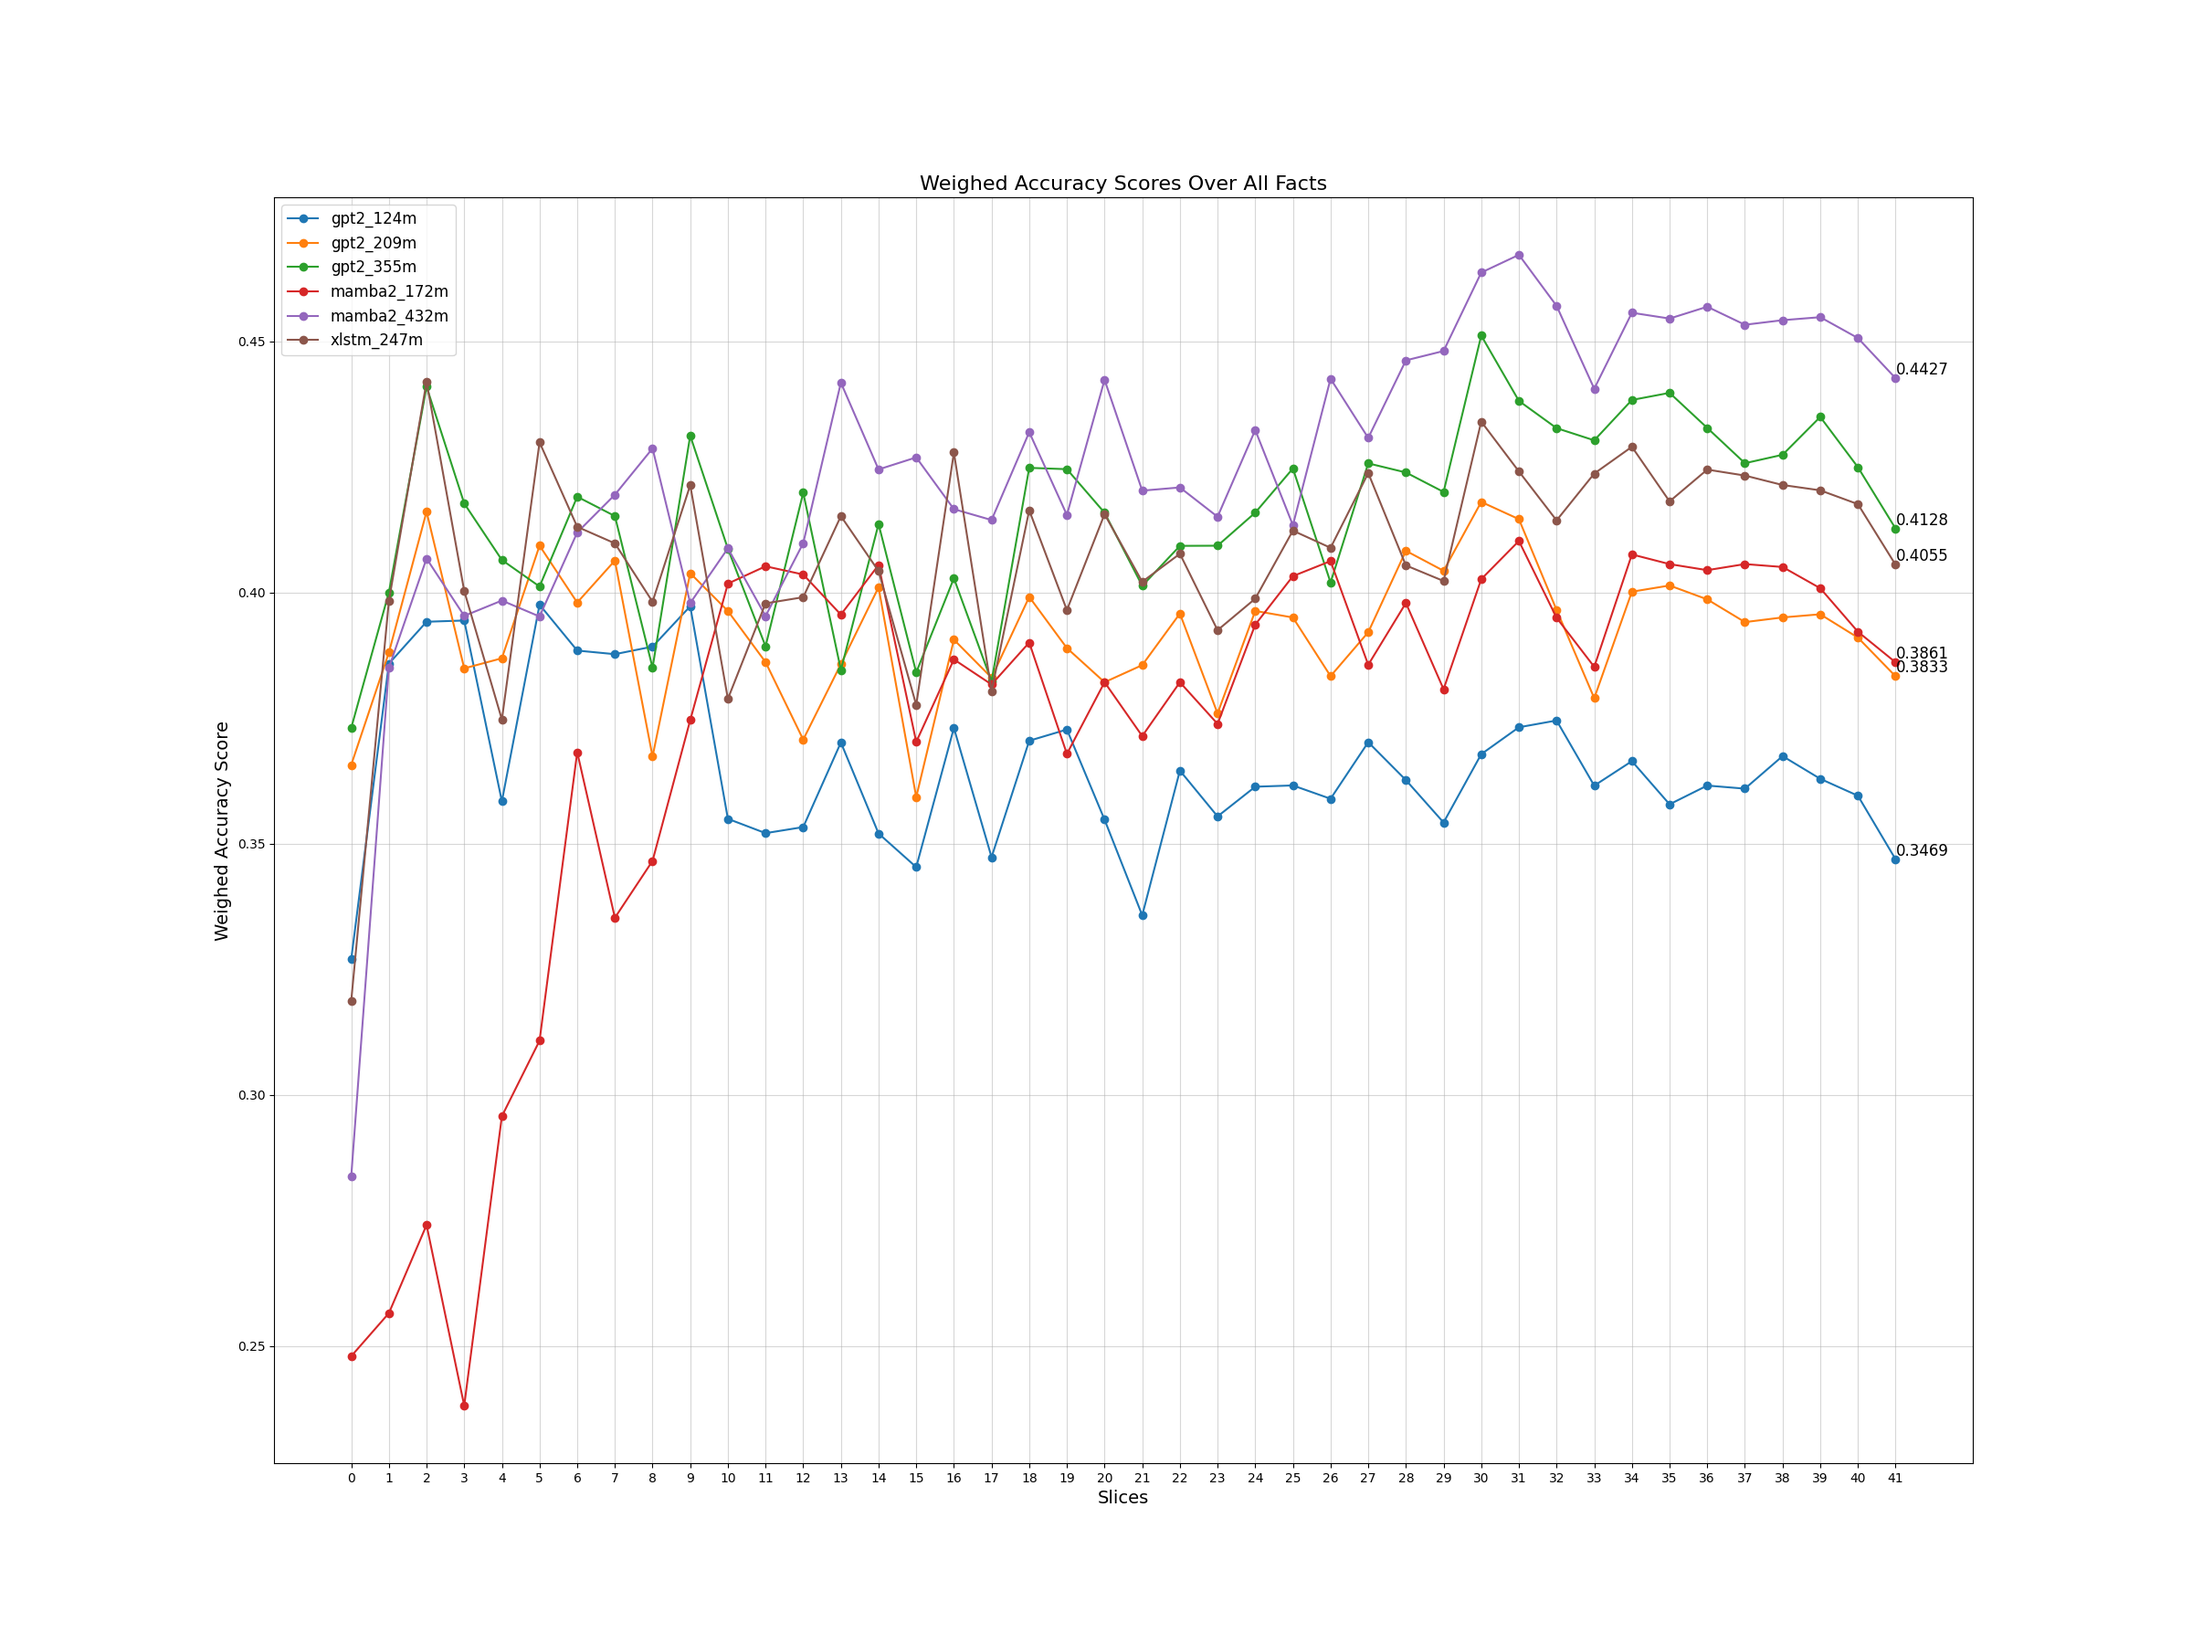
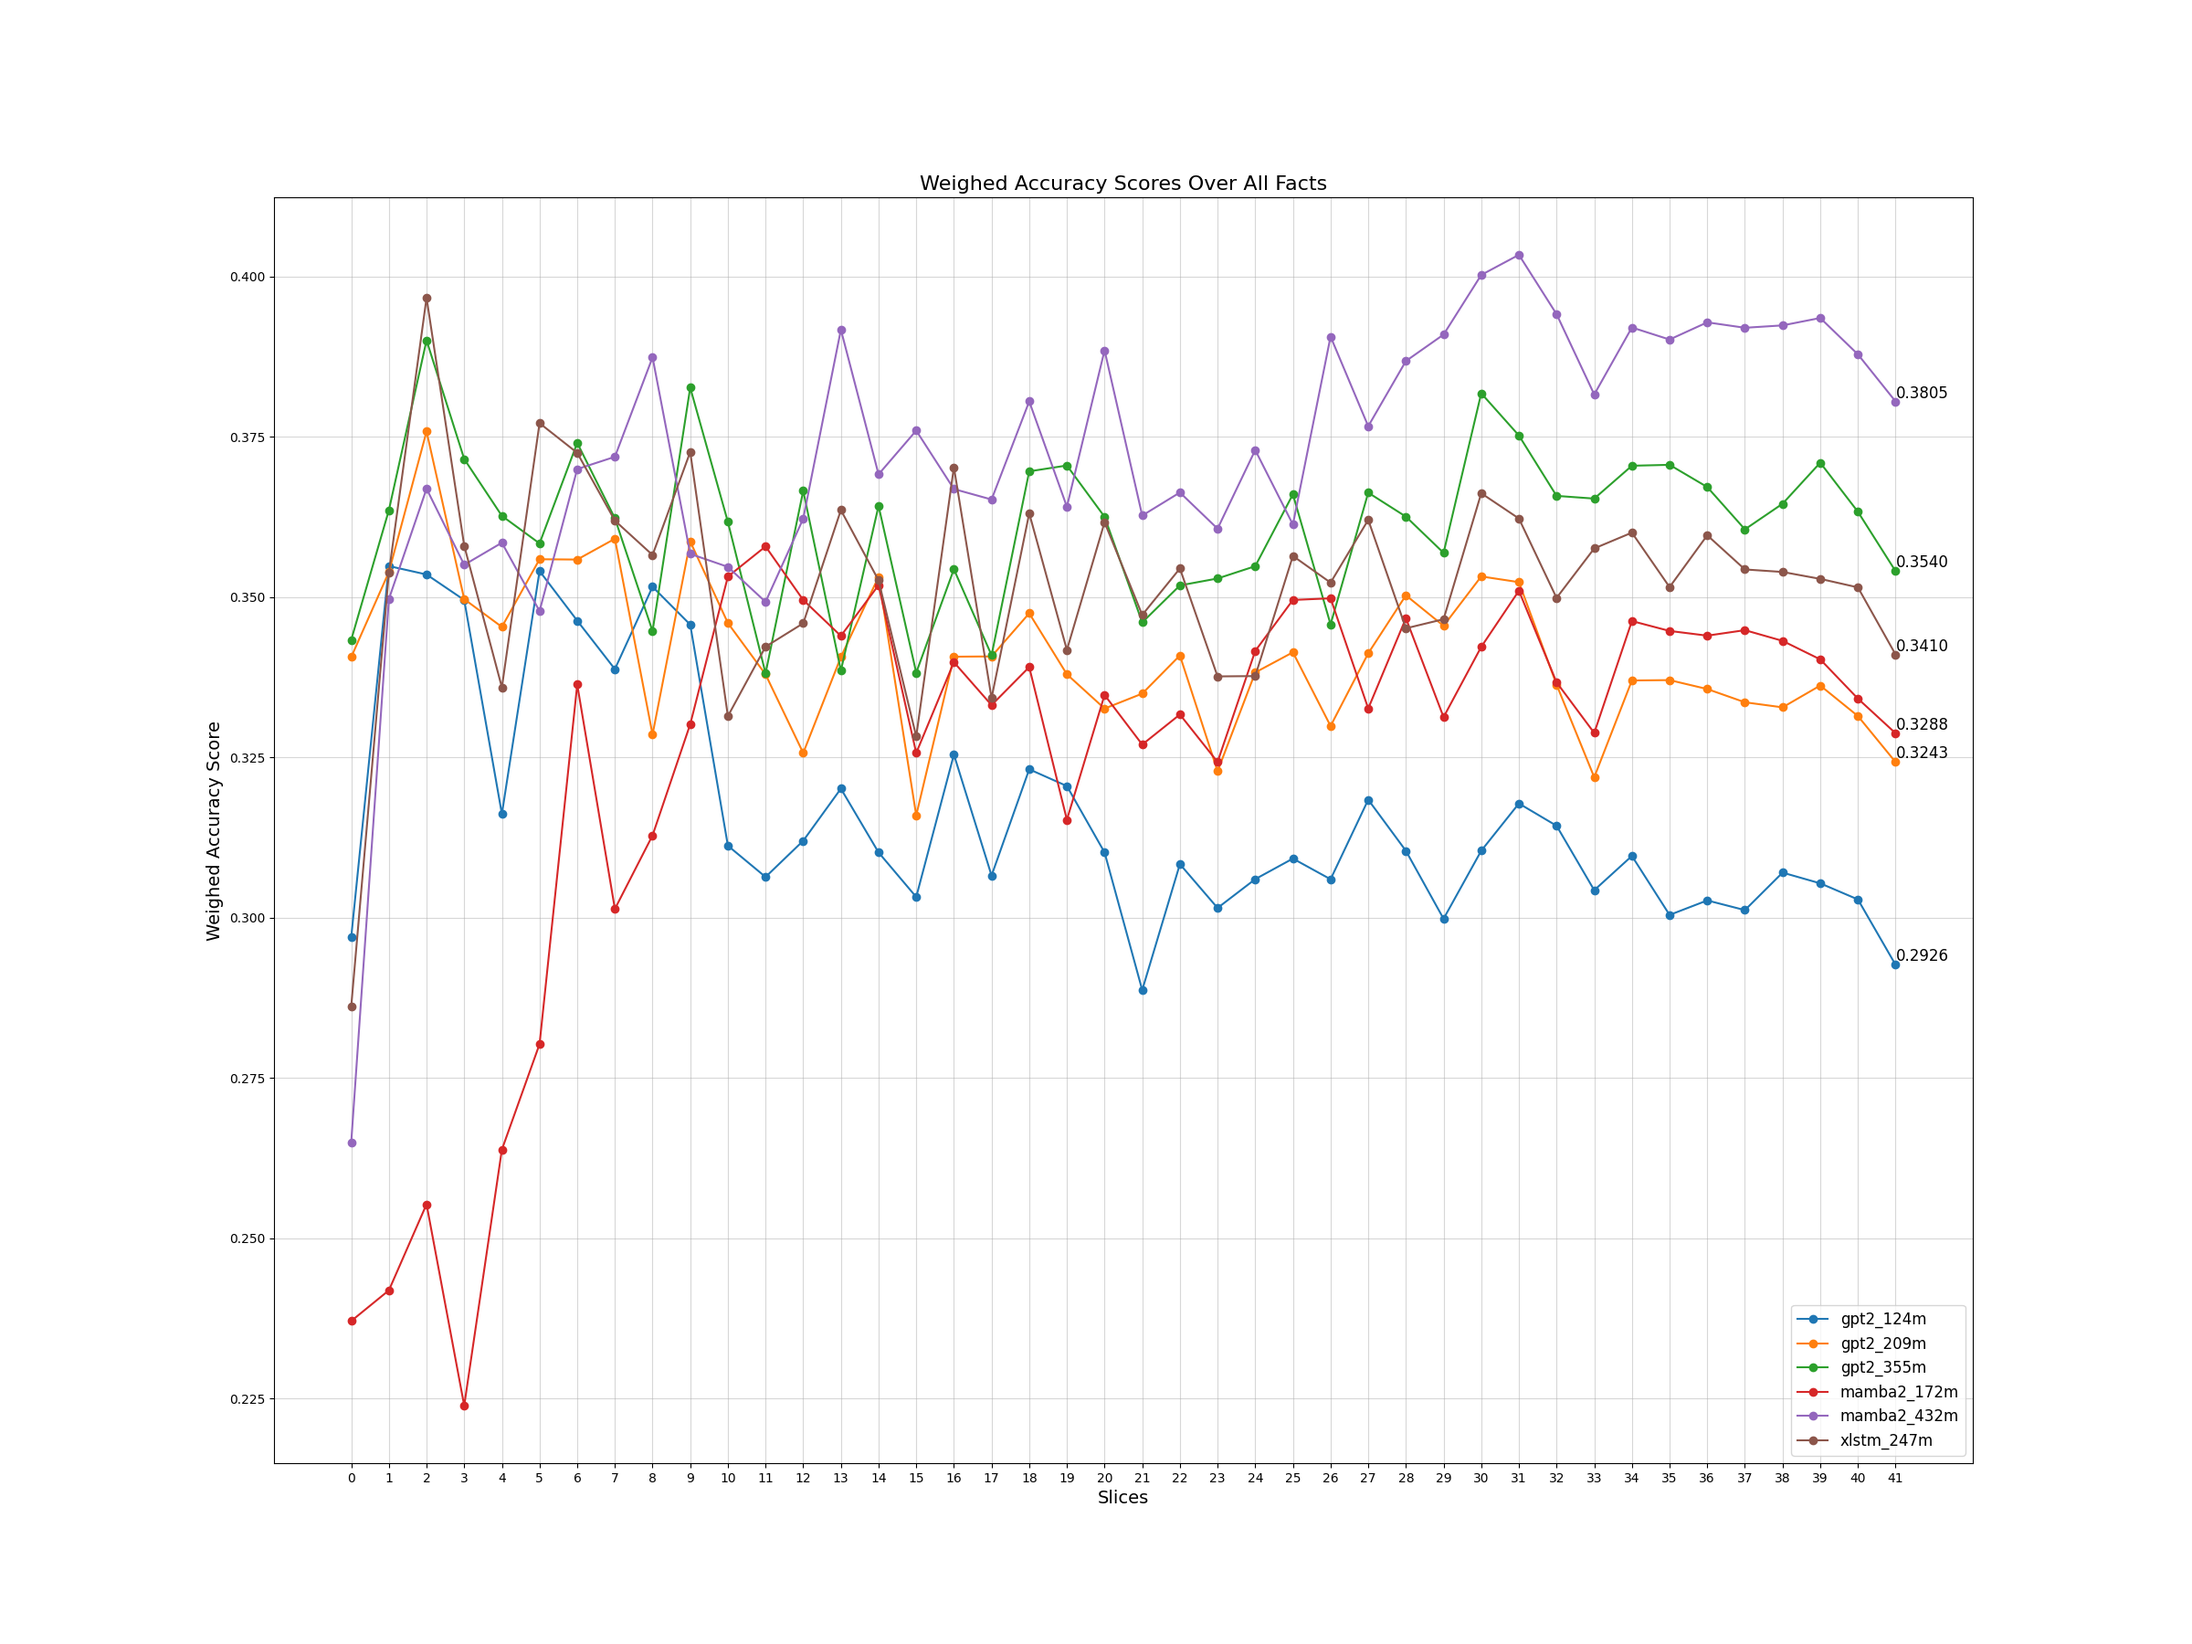
add results to readme

diff --git a/probing_on_dataset_slices.md b/probing_on_dataset_slices.md
@@ -210,6 +210,69 @@ same as BEAR-big
 - link to probing results: [probing results](probing_results/BEAR-small/mamba2_432m/wikimedia_wikipedia_20231101_en/evaluation_on_slices)
 - link to accuracy diagrams on checkpoints: [accuracy_on_checkpoints](probing_results/BEAR-small/mamba2_432m/wikimedia_wikipedia_20231101_en/evaluation_on_slices/combined_accuracy_plots_grid.png)
 
+### Weighted Accuracy on Checkpoints
+
+Here, the goal is to create a weighted accuracy score for each model checkpoint, boiling down the accuracy on the 
+occurrence buckets to a single score.
+Here, we proposed two methods:
+
+#### 1. Weighted Accuracy Score on Occurrence Buckets (WASB)
+
+$$\frac{1}{\sum_{i=1}^{N}w_i}\sum_{i=1}^{N}w_i\frac{y_i}{\widehat{y_i}}$$
+
+The main idea is
+to account for the bucket size change with increasing number of facts per bucket as the model sees more data.
+Thus, this method is more suited for a comparison of the checkpoints of one model.
+
+##### Where:
+
+- $w_i$ is the weight of the fact $i$. Here, the weights are dependent on the number of occurrences of the fact $i$ 
+where each fact is sorted into a bucket (e.g., 0, 2-4, 4-8, ... with the bucked end being exclusive).
+
+- $y_i$ is the models prediction for the fact $i$ and $\widehat{y_i}$ is the target value for the fact $i$ (1 if the model answered correctly, 0 otherwise).
+- If a fact has an occurrence of 5, the weight is calculated with the occurrence of 4 e.g., 4-8 bucket. (always the lower bound of the bucket).
+
+The weight is thus calculated as follows:
+
+$$
+w_i = 
+\begin{cases}
+exp(-\lambda x), \text{if } x\ge 1\\
+0, \text{otherwise}
+\end{cases}
+$$
+
+- with $\lambda=0.01$
+- $x$ is the occurrence of the fact $i$ (the lower bound of the bucket).
+
+
+- [Results BEAR-big](probing_results/weighted_accuracy_over_slices/wikimedia_wikipedia_20231101_en/BEAR-big/on_buckets/weighted_accuracy_on_slices_bear_big.png)
+- [Results BEAR-small](probing_results/weighted_accuracy_over_slices/wikimedia_wikipedia_20231101_en/BEAR-small/on_buckets/weighted_accuracy_on_slices_bear_small.png)
+
+#### 2. Weighted Accuracy Score Over All Facts (WAF)
+
+This method is more suited for a comparison of the different models final checkpoint.
+
+$$\frac{\sum_{i=1}^{N}\widehat{w_i}}{\sum_{i=1}^{N}w_i}$$
+
+##### Where:
+
+- $w_i$ and $\widehat{y_i}$ is the same as in the WASB method.
+
+The weight is thus calculated as follows:
+
+$$
+\widehat{w_i} =
+\begin{cases}
+w_i, \text{if } \widehat{y}=1\\
+0, \text{if } \widehat{y}=0\\
+\end{cases}
+$$
+
+- [Results BEAR-big](probing_results/weighted_accuracy_over_slices/wikimedia_wikipedia_20231101_en/BEAR-big/over_all_facts/weighted_accuracy_on_slices_bear_big.png)
+- [Results BEAR-small](probing_results/weighted_accuracy_over_slices/wikimedia_wikipedia_20231101_en/BEAR-small/over_all_facts/weighted_accuracy_on_slices_bear_small.png)
+
+
 ## Correct Answer Probability Analysis
 
 For each checkpoint, derive the probability of the model
